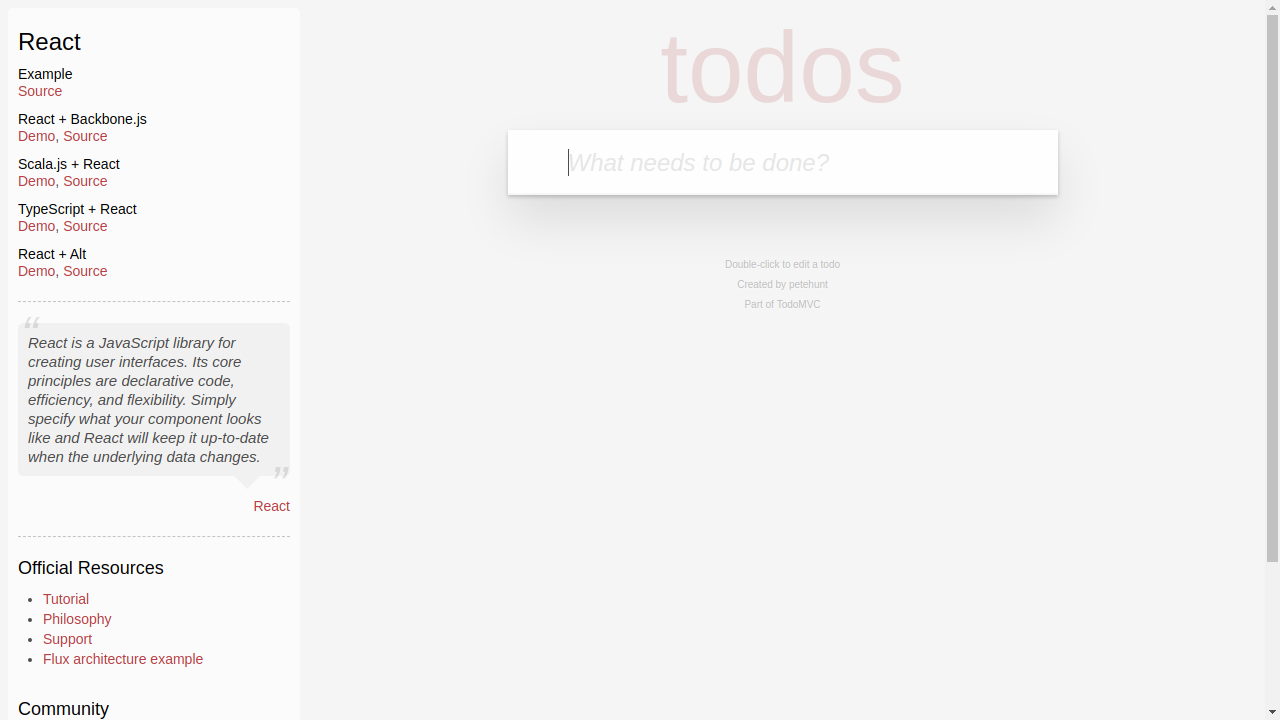
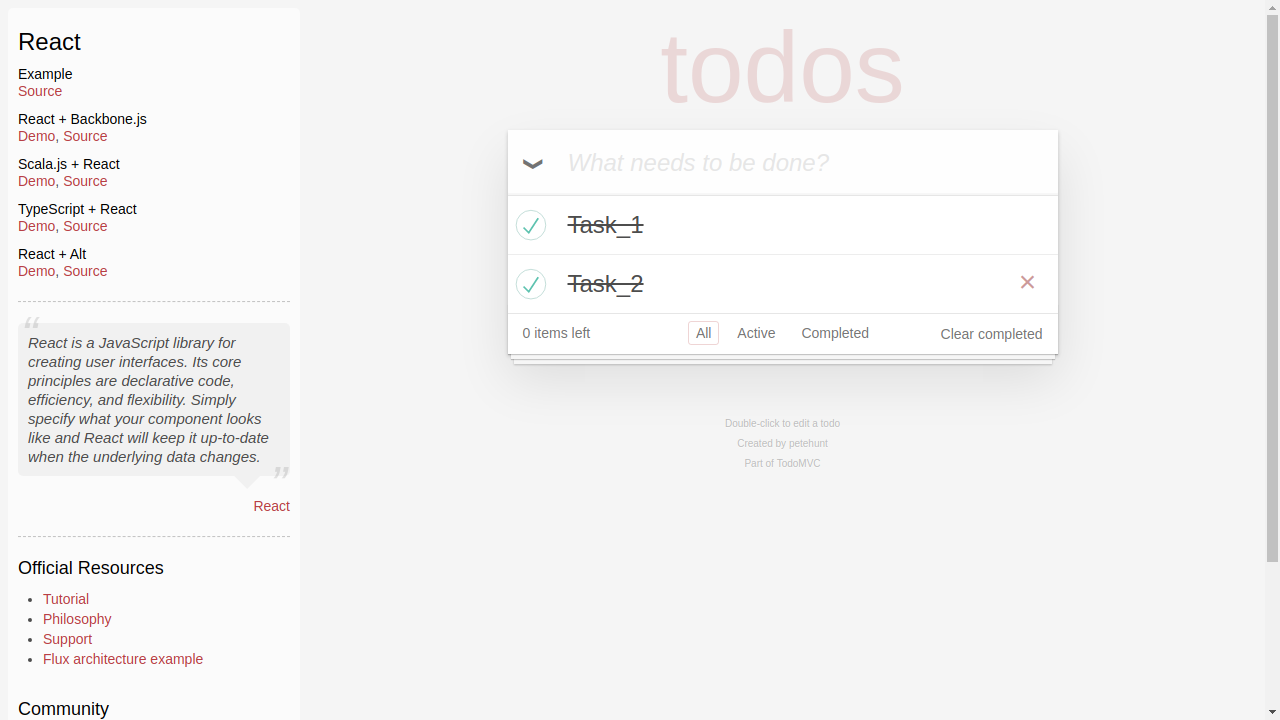
interacting with elements

diff --git a/03_InteractingWithElements.js b/03_InteractingWithElements.js
@@ -1,0 +1,25 @@
+const {chromium} = require ('playwright');
+
+(async() => {
+    const browser = await chromium.launch({
+        headless: false,
+        slowMo: 50
+    })
+    const context = await browser.newContext()
+    const page = await context.newPage()
+    await page.goto('https://react-redux.realworld.io/#/login')
+    
+    await page.fill('input[type="email"]', 'qacamp.acad@gmail.com')
+    await page.press('input[type="email"]', 'Tab')
+    //await page.type('input[type="password"]', 'test12345', {delay: 1000}) //enter the characters one by one, and we can also control the typing speed
+    await page.type('input[type="password"]', 'test12345')
+    //await page.click('"Sign in"', {position: {x: 0, y:0}, button:'left', modifiers:['Shift'], force: true, timeout:45000 })
+    //await page.dblclick('form >> "Sign in"') // performs a double click
+    await page.focus('form >> "Sign in"')
+
+    
+    await page.screenshot({
+        path: `todo.png`
+    }) 
+    //await browser.close()
+}) ()

diff --git a/3A_exercise.js b/3A_exercise.js
@@ -1,0 +1,26 @@
+const {chromium} = require ('playwright');
+
+(async() => {
+    const browser = await chromium.launch({
+        headless: false
+    })
+    // const context = await browser.newContext()
+    // const page = await context.newPage()
+    const page = await browser.newPage()
+    await page.goto('http://todomvc.com/examples/react/#/')
+    
+    const input = await page.$('.new-todo')
+    await input.fill('Task_1')
+    await input.press("Enter")
+    await input.fill('Task_2')
+    await input.press("Enter")
+
+    const checks = await page.$$('.toggle')
+    checks.forEach(checks => checks.check())
+
+
+    await page.screenshot({
+        path: `todo.png`
+    }) 
+    //await browser.close()
+}) ()
